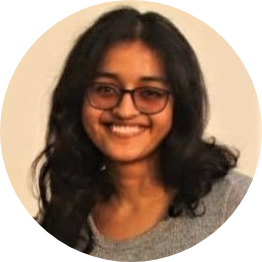
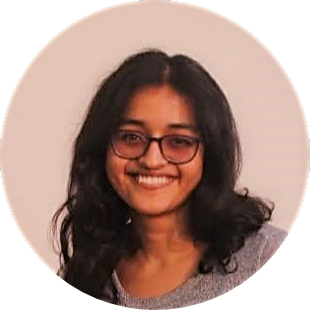
Updates Modified some components Deleted Description component - not required

diff --git a/js/Certification.js b/js/Certification.js
@@ -1,0 +1,56 @@
+'use strict';
+
+const e = React.createElement;
+const re = ReactDOM.render;
+
+class Embed extends React.Component
+{
+    constructor(props){super(props);}
+    render()
+    {
+        return e('embed', {width:this.props.width, height:this.props.height}, this.props.path);
+    }
+}
+class Title extends React.Component
+{
+    constructor(props) { super(props); }
+    render()
+    {
+        return e(
+            'h4',
+            {
+                //add title CSS classes which contain font style and font family
+                
+            },
+            this.props.title
+        );
+    }
+}
+
+class Description extends React.Component
+{
+    constructor(props) { super(props); }
+    render()
+    {
+        return e('p',{/*add font size and style*/},this.props.description);
+    }
+}
+class Certifierlogo extends React.Component
+{
+    constructor(props){super(props);}
+    render()
+    {
+        return e('img',null,{src:this.props.path});
+    }
+}
+
+class Certifier extends React.Component
+{
+    constructor(props){super(props);}
+    render()
+    {
+        return e(
+
+        );
+    }
+}

diff --git a/js/Image.js b/js/Image.js
@@ -1,0 +1,21 @@
+'use strict';
+
+const e = React.createElement;
+const re = ReactDOM.render;
+
+export default class Photo extends React.Component
+{
+    constructor(props){super(props);}
+    render()
+    {
+        return e(
+            'img',
+            {
+                className:this.props.clss,
+                src:this.props.path,
+                id:this.props.id,
+                alt:this.props.alt
+            }
+        );
+    }
+}

diff --git a/js/Title.js b/js/Title.js
@@ -1,0 +1,21 @@
+'use strict';
+
+const e = React.createElement;
+const re = ReactDOM.render;
+
+export default class Line extends React.Component
+{
+    constructor(props){super(props);}
+    render()
+    {
+        return e(
+            this.props.type,
+            {
+                id:this.props.id,
+                className:this.props.clss
+            },
+            this.props.text
+        );
+    }
+}
+

diff --git a/js/Description.js b/js/Description.js
@@ -1,0 +1,20 @@
+'use strict';
+
+const e = React.createElement;
+const re = ReactDOM.render;
+
+export default class Words extends React.Component
+{
+    constructor(props){super(props);}
+    render()
+    {
+        return e(
+            'p',
+            {
+                className:this.props.clss,
+                id:this.props.id
+            },
+            this.props.text
+        );
+    }
+}

diff --git a/css/styles.css b/css/styles.css
@@ -20,8 +20,12 @@
     display: block;
     
 }
+.img-flex {
+    width:100%;
+    height:100%;
+}
 .small-pad {
-    margin:0px 10px;
+    margin:0px 0px;
 }
 .border-black {
     border:5px solid black;
